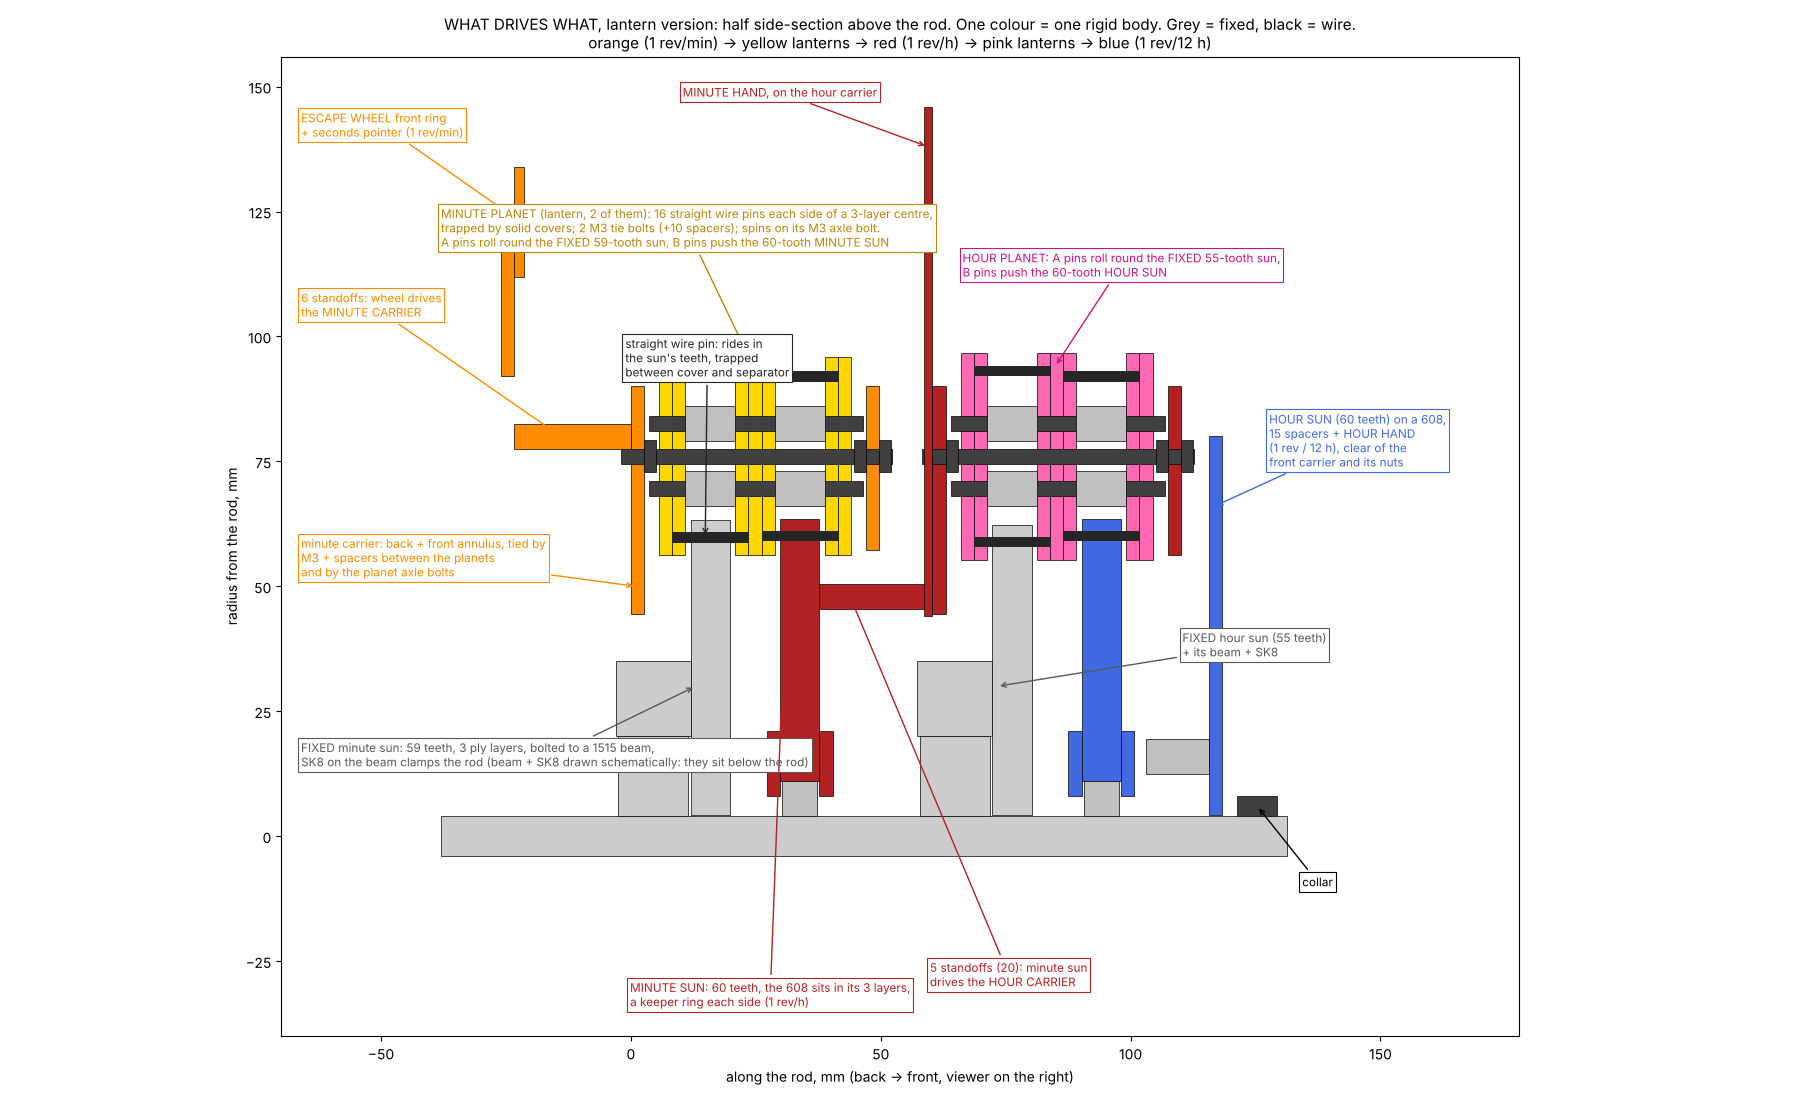
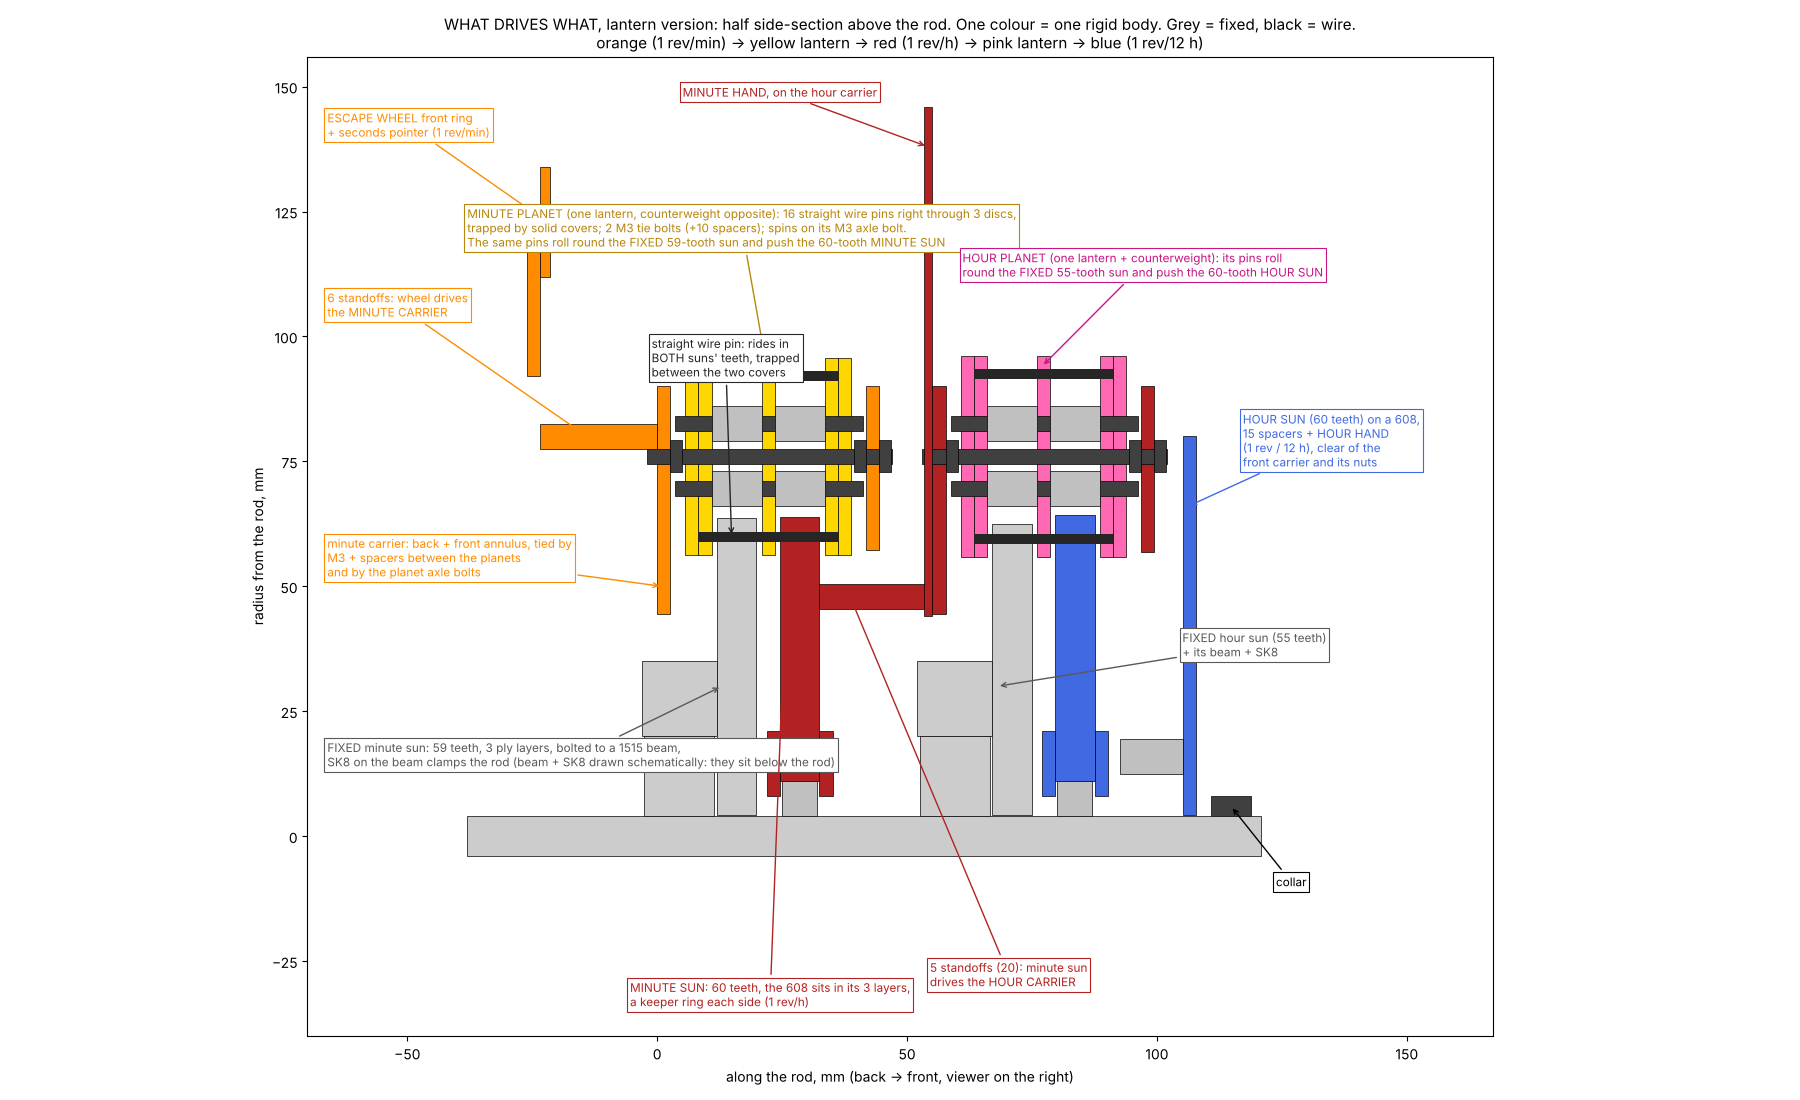
Clock train: one shared-pin lantern per stage (16 straight pins through 3 discs) + counterweight; mesh checked over a full turn
Claude-Session: https://claude.ai/code/session_01LQy87QnU21cWEAk5CN6jGY

diff --git a/marbles/clock/clock_lantern.py b/marbles/clock/clock_lantern.py
@@ -1,17 +1,18 @@
 #!/usr/bin/env python3
-"""Clock train, LANTERN version: the planets are lanterns (straight 2.05 wire pins), the suns plain ply gears (3 layers)
-with teeth cut as the envelope of the lantern pins. Each mesh is wood on steel, the pins span the whole sun thickness
+"""Clock train, LANTERN version: ONE lantern planet per stage (16 straight 2.05 wire pins running right through it, serving
+both suns) + a counterweight, the suns plain ply gears (3 layers) with teeth cut as the envelope of the pins. Each mesh is wood on steel, the pins span the whole sun thickness
 (so a sun can warp or float along them without losing the mesh), and nothing is bent.
 
 Differential suns: carrier in, sun A fixed, sun B out; out / carrier = 1 - ZA*PB / (PA*ZB).
-Both stages: A = 76, sun B (60 teeth) at pitch 2*pi, PA = PB = 16 pins, 2 planets.
+Both stages: A = 76, P = 16 pins on ONE circle, midway between the two suns' pitch-circle sizes (the teeth are cut to the
+pins' real path, so being a little off each pitch circle costs nothing).
+Shared pins put the planet at the same phase on both suns, which only fits planets 360 / (ZB - ZA) apart: minutes (60 - 59
+= 1) one planet; hours (60 - 55 = 5) one, or up to 5 at 72 deg. Extra minute planets would need separate A / B pin sets.
 
-One planet (lantern), back -> front, all ply3, all clamped by 2 M3 tie bolts (+ 10 spacers in the two sun zones), spinning
-on a centre M3 axle bolt nutted to both carriers:
-  cover A (solid) | disc A (A holes) | [sun A zone, 10] | c1 (A holes) | separator (solid) | c2 (B holes) |
-  [sun B zone, 10] | disc B (B holes) | cover B (solid)
-The A pins (cut to disc A + 10 + c1) are trapped between cover A and the separator, the B pins likewise: straight wire,
-cut to length, dropped in. Gear B's holes sit at each planet's own angle to the tie holes (cut per planet).
+The lantern, back -> front, all ply3, clamped by 2 M3 tie bolts (+ 10 spacers in the two sun zones), spinning on a centre
+M3 axle bolt nutted to both carriers:
+  cover (solid) | disc (holes) | [sun A zone, 10] | middle disc (holes) | [sun B zone, 10] | disc (holes) | cover (solid)
+The pins (disc to disc, straight wire cut to one length) are trapped between the covers. All planets identical.
 
     python3 marbles/clock/clock_lantern.py    # numbers + clock_lantern_profiles.scad (used by clock_train.scad)
 """
@@ -24,7 +25,7 @@ HERE = Path(__file__).resolve().parent
 T = 2.63
 PIN, PIN_HOLE, RIM = cp.PIN, cp.PIN_HOLE, cp.RIM
 P_PL = 16                        # lantern pins (each side)
-N_PL = 2                         # planets per stage
+N_PL = 1                         # planets per stage (shared pins: see above)
 L_SUN = 3                        # ply layers per sun gear
 ZONE = 10.0                      # lantern disc to lantern disc round a sun (a bought 10 spacer on each tie bolt)
 TIE_D = 6.5                      # tie bolts, either side of the planet centre
@@ -33,13 +34,54 @@ STAGES = {"minute": dict(ZA=59, ZB=60), "hour": dict(ZA=55, ZB=60)}
 A = 60.0 + P_PL                  # sun B pitch 2*pi -> pin circle (lantern B) r P_PL, sun B pitch r 60
 
 
+def pin_r(S):
+    """the one pin circle: midway between the two pitch radii the suns would like"""
+    return (A * P_PL / (S["ZA"] + P_PL) + A * P_PL / (S["ZB"] + P_PL)) / 2
+
+
+def sun_cut(Z, rp, steps=2400, tip_w=cp.TIP_W):
+    """sun of Z teeth meshing the P_PL-pin lantern (centre distance A) whose pins sit on radius rp: blank minus the pins
+    through every position (true kinematics: sun / planet turn = P_PL / Z). Returns pitch r, tip r, outline, contact."""
+    from shapely.geometry import Point
+    from shapely.ops import unary_union
+    R = A * Z / (Z + P_PL); r = A - R
+    cut = []
+    turns = 2 * math.pi * R / r
+    for i in range(steps + 1):
+        b = -turns / 2 + turns * i / steps              # planet turn (rel. carrier)
+        a = -b * r / R                                  # sun turn (external mesh: opposite)
+        c, s = math.cos(-a), math.sin(-a)
+        for j in range(P_PL):
+            g = math.pi + b + j * 2 * math.pi / P_PL
+            x, y = A + rp * math.cos(g), rp * math.sin(g)
+            if math.hypot(x, y) > R + 6:
+                continue
+            cut.append(Point(c * x - s * y, s * x + c * y).buffer(PIN / 2 + cp.PIN_CLR, 16))
+    cut = unary_union(cut)
+    best = None
+    for k in range(80):
+        ra = R + 0.5 + 0.05 * k
+        g = Point(0, 0).buffer(ra, 512).difference(cut)
+        ring = Point(0, 0).buffer(ra, 512).difference(Point(0, 0).buffer(ra - 0.05, 512))
+        land = ring.intersection(g)
+        w = min(x.length for x in getattr(land, "geoms", [land])) / 2 if not land.is_empty else 0
+        if w < tip_w:
+            break
+        best = (ra, g)
+    ra, g = best
+    t = 0.0
+    while math.hypot(A + rp * math.cos(math.pi + t), rp * math.sin(math.pi + t)) <= ra + PIN / 4:
+        t += 0.0005
+    return R, ra, g, t / (2 * math.pi / P_PL)
+
+
 def stage(S):
+    rp = pin_r(S)
     out = {}
     for lay in ("A", "B"):
         Z = S["Z" + lay]
-        p = 2 * math.pi * A / (Z + P_PL)
-        R, tip, g = cp.planet_profile(Z, P_PL, p, steps=2400)       # sun (Z teeth) cut by the P_PL-pin lantern
-        out[lay] = dict(Z=Z, p=p, R=R, tip=tip, g=g, r=P_PL * p / (2 * math.pi), cr=cp.contact_ratio(Z, P_PL, p, tip))
+        R, tip, g, cr = sun_cut(Z, rp)
+        out[lay] = dict(Z=Z, R=R, tip=tip, g=g, r=rp, cr=cr, p=2 * math.pi * rp / P_PL)
     return out
 
 
@@ -49,7 +91,7 @@ def pts(poly):
 
 if __name__ == "__main__":
     from shapely import affinity
-    lines = ["// generated by clock_lantern.py: sun gear outlines (a tooth on +x) + lantern pin circles",
+    lines = ["// generated by clock_lantern.py: sun gear outlines (a tooth space on +x) + lantern pin circles",
              f"CLOCK_A = {A}; N_PL = {N_PL}; P_PL = {P_PL}; L_SUN = {L_SUN}; ZONE = {ZONE}; TIE_D = {TIE_D};"]
     disc_r = 0
     for name, S in STAGES.items():
@@ -57,21 +99,28 @@ if __name__ == "__main__":
         ratio = 1 - S["ZA"] / S["ZB"]
         print(f"{name}: out/carrier = 1 - {S['ZA']}*{P_PL}/({P_PL}*{S['ZB']}) = {ratio:.6f} (1/{1 / ratio:.3f})")
         for lay, d in st.items():
-            room = d["r"] - (d["tip"] - d["R"])
-            print(f"  sun {lay}: {d['Z']} teeth, pitch r {d['R']:.3f}, tip r {d['tip']:.2f}; lantern pin circle r {d['r']:.3f} "
+            room = A - d["tip"]
+            print(f"  sun {lay}: {d['Z']} teeth, pitch r {d['R']:.3f}, tip r {d['tip']:.2f}; pin circle r {d['r']:.3f} "
                   f"(pitch {d['p']:.3f}, gap between pins {d['p'] - PIN:.2f}); contact ~{d['cr']:.2f}; "
                   f"room for the tie bolts inside the sun tips {room:.2f} (need {TIE_D + SP_D / 2 + 1:.2f})")
             assert room >= TIE_D + SP_D / 2 + 1
-            g = affinity.rotate(d["g"], 180 / d["Z"], origin=(0, 0))       # a tooth on +x
+            g = d["g"]                                                      # a tooth SPACE on +x (a pin sits there at 0)
             lines.append(f"function sun_{name}_{lay}() = {pts(g.simplify(0.02))};")
-            lines.append(f"{name}_{lay}_r = {d['r']:.4f};")
+            if lay == "A":
+                lines.append(f"{name}_r = {d['r']:.4f};")
             disc_r = max(disc_r, d["r"] + PIN_HOLE / 2 + RIM)
     lines.append(f"LANTERN_R = {disc_r:.3f};")
-    pin_len = T + ZONE + T
-    n = 2 * P_PL * N_PL * len(STAGES)
+    pin_len = 3 * T + 2 * ZONE
+    n = P_PL * N_PL * len(STAGES)
     print(f"lantern disc r {disc_r:.2f}; planet reaches {A - disc_r:.2f} .. {A + disc_r:.2f} from the rod")
-    print(f"pins: {P_PL} x 2 sides x {N_PL} planets x {len(STAGES)} stages = {n}, each {pin_len:.2f} long "
-          f"(disc {T} + zone {ZONE} + c-layer {T}) -> {n * pin_len / 1000:.2f} m of wire")
-    print(f"planet stack: 7 layers + 2 zones = {7 * T + 2 * ZONE:.2f}")
+    print(f"pins: {P_PL} x {N_PL} planet x {len(STAGES)} stages = {n}, each {pin_len:.2f} long "
+          f"(3 discs {3 * T:.2f} + 2 zones {2 * ZONE}) -> {n * pin_len / 1000:.2f} m of wire")
+    print(f"planet stack: 5 layers + 2 zones = {5 * T + 2 * ZONE:.2f}")
+    # counterweight: rough planet mass (ply 0.6 g/cm3, steel 7.85) -- an estimate, balance the carrier by hand
+    ply = 5 * math.pi * disc_r ** 2 * T * 0.6e-3
+    pins = n / len(STAGES) * pin_len * math.pi * (PIN / 2) ** 2 * 7.85e-3
+    hw = 3 * (40 * math.pi * 1.5 ** 2 * 7.85e-3) + 6 * 0.6 + 2 * 1.0       # 3 M3 x ~40, 6 nuts, 2 spacers (guesses)
+    print(f"planet mass ~{ply + pins + hw:.0f} g (ply {ply:.1f} + pins {pins:.1f} + hardware ~{hw:.1f}, estimate) -> "
+          f"counterweight that much at r {A} opposite, tuned so the carrier sits still at any angle")
     (HERE / "clock_lantern_profiles.scad").write_text("\n".join(lines) + "\n")
     print("wrote clock_lantern_profiles.scad")

diff --git a/marbles/clock/clock_train_drive.py b/marbles/clock/clock_train_drive.py
@@ -26,9 +26,8 @@ def box(ax, z0, dz, r0, r1, col, ec="k", lw=.5):
 def layout():
     """z (along the rod) inside one stage, back carrier's back face = 0, as clock_train.scad (explode 0)"""
     z0 = T + CB
-    zl = [z0 + x for x in (0, T, 2 * T, 2 * T + ZONE, 3 * T + ZONE, 4 * T + ZONE, 5 * T + ZONE, 5 * T + 2 * ZONE,
-                           6 * T + 2 * ZONE, 7 * T + 2 * ZONE)]
-    z = dict(zl=zl, sunA=zl[2] + CL, sunB=zl[6] + CL, fc=zl[9] + FC)
+    zl = [z0 + x for x in (0, T, 2 * T, 2 * T + ZONE, 3 * T + ZONE, 3 * T + 2 * ZONE, 4 * T + 2 * ZONE, 5 * T + 2 * ZONE)]
+    z = dict(zl=zl, sunA=zl[2] + CL, sunB=zl[4] + CL, fc=zl[7] + FC)
     z["depth"] = z["fc"] + T
     z["keeper_front"] = z["sunB"] + (L_SUN + 1) * T
     return z
@@ -47,21 +46,20 @@ def stage(ax, z0, name, ccar, cpl, cout, st):
     for zz in (z["sunB"] - T, z["sunB"] + L_SUN * T):
         box(ax, zz, T, 8, 21, cout)                                                                  # keepers
     box(ax, z["sunB"] + 0.4, 7, 4, 11, "silver")                                                    # 608
-    for i in (0, 1, 3, 4, 5, 7, 8):                                                                  # lantern layers
+    for i in (0, 1, 3, 5, 6):                                                                        # lantern layers
         box(ax, zl[i], T, A - lr, A + lr, cpl)
-    for lay, za, zb in (("A", zl[1], zl[4]), ("B", zl[5], zl[8])):                                   # pins (top + bottom of the circle)
-        r = st[lay]["r"]
-        for sgn in (-1, 1):
-            box(ax, za, zb - za, A + sgn * r - cl.PIN / 2, A + sgn * r + cl.PIN / 2, COL["pin"], ec="none")
+    r = st["A"]["r"]
+    for sgn in (-1, 1):                                                                              # pins (one set, both suns)
+        box(ax, zl[1], zl[6] - zl[1], A + sgn * r - cl.PIN / 2, A + sgn * r + cl.PIN / 2, COL["pin"], ec="none")
     for sgn in (-1, 1):                                                                              # tie bolts + spacers
         rt = A + sgn * TIE_D
-        box(ax, zl[0] - 2, zl[9] - zl[0] + 4.4, rt - 1.5, rt + 1.5, COL["hw"])
-        for za, zb in ((zl[2], zl[3]), (zl[6], zl[7])):
+        box(ax, zl[0] - 2, zl[7] - zl[0] + 4.4, rt - 1.5, rt + 1.5, COL["hw"])
+        for za, zb in ((zl[2], zl[3]), (zl[4], zl[5])):
             box(ax, za, zb - za, rt - SP_R, rt + SP_R, "silver")
     box(ax, z0 - 2, z["fc"] + T + 4.6 - z0, A - 1.5, A + 1.5, COL["hw"])                            # axle bolt (fixed)
     for zz in (z0 + T, z["fc"] - 2.4, z["fc"] + T):
         box(ax, zz, 2.4, A - 3.2, A + 3.2, COL["hw"])
-    chk = {"sun A to c1": zl[3] - (z["sunA"] + L_SUN * T), "lantern inner reach vs sun tips (axial: zones)": CL,
+    chk = {"sun A to middle disc": zl[3] - (z["sunA"] + L_SUN * T), "lantern inner reach vs sun tips (axial: zones)": CL,
            "UP_R standoff vs hour beam": UP_R - 2.5 - BEAM_REACH, "UP_R standoff vs lantern discs": A - lr - UP_R - 2.5,
            "tie spacers inside the sun tips": min(st[k]["r"] - (st[k]["tip"] - st[k]["R"]) for k in st) - TIE_D - SP_R}
     for k, v in chk.items():
@@ -93,24 +91,24 @@ def drive_diagram():
     L("ESCAPE WHEEL front ring\n+ seconds pointer (1 rev/min)", (zw + 1, 125), (zw - 40, 140), COL["sec"])
     L("6 standoffs: wheel drives\nthe MINUTE CARRIER", (zw + 12, 80), (zw - 40, 104), COL["sec"])
     L("minute carrier: back + front annulus, tied by\nM3 + spacers between the planets\nand by the planet axle bolts", (1, 50), (zw - 40, 52), COL["sec"])
-    L(f"MINUTE PLANET (lantern, {N_PL} of them): {cl.P_PL} straight wire pins each side of a 3-layer centre,\n"
+    L(f"MINUTE PLANET (one lantern, counterweight opposite): {cl.P_PL} straight wire pins right through 3 discs,\n"
       f"trapped by solid covers; 2 M3 tie bolts (+10 spacers); spins on its M3 axle bolt.\n"
-      f"A pins roll round the FIXED {sm['A']['Z']}-tooth sun, B pins push the {sm['B']['Z']}-tooth MINUTE SUN",
-      (m["zl"][4] + 1, A + 18), (-38, 118), "darkgoldenrod")
+      f"The same pins roll round the FIXED {sm['A']['Z']}-tooth sun and push the {sm['B']['Z']}-tooth MINUTE SUN",
+      (m["zl"][3] + 1, A + 18), (-38, 118), "darkgoldenrod")
     L(f"FIXED minute sun: {sm['A']['Z']} teeth, 3 ply layers, bolted to a 1515 beam,\nSK8 on the beam clamps the rod "
       f"(beam + SK8 drawn schematically: they sit below the rod)", (m["sunA"] + 1, 30), (zw - 40, 14), "0.35")
     L(f"MINUTE SUN: {sm['B']['Z']} teeth, the 608 sits in its 3 layers,\na keeper ring each side (1 rev/h)", (m["sunB"] + 1, 45), (m["sunB"] - 30, -34), COL["minute"])
     L(f"5 standoffs ({SP_UP}): minute sun\ndrives the HOUR CARRIER", (m["sunB"] + 14, UP_R), (m["sunB"] + 30, -30), COL["minute"])
     L("MINUTE HAND, on the hour carrier", (z_h - 1, 138), (z_h - 50, 148), COL["minute"])
-    L(f"HOUR PLANET: A pins roll round the FIXED {sh['A']['Z']}-tooth sun,\nB pins push the {sh['B']['Z']}-tooth HOUR SUN", (h["zl"][4] + 1, A + 18), (z_h + 6, 112), "mediumvioletred")
+    L(f"HOUR PLANET (one lantern + counterweight): its pins roll\nround the FIXED {sh['A']['Z']}-tooth sun and push the {sh['B']['Z']}-tooth HOUR SUN", (h["zl"][3] + 1, A + 18), (z_h + 6, 112), "mediumvioletred")
     L(f"FIXED hour sun ({sh['A']['Z']} teeth)\n+ its beam + SK8", (h["sunA"] + 1, 30), (z_h + 50, 36), "0.35")
     L(f"HOUR SUN (60 teeth) on a 608,\n{SP_HAND} spacers + HOUR HAND\n(1 rev / 12 h), clear of the\nfront carrier and its nuts", (z_hh + 1, 66), (z_hh + 12, 74), COL["hour"])
-    L("straight wire pin: rides in\nthe sun's teeth, trapped\nbetween cover and separator", (m["zl"][2] + 4, A - sm["A"]["r"]), (m["zl"][2] - 12, 92), COL["pin"])
+    L("straight wire pin: rides in\nBOTH suns' teeth, trapped\nbetween the two covers", (m["zl"][2] + 4, A - sm["A"]["r"]), (m["zl"][2] - 12, 92), COL["pin"])
     L("collar", (z_hh + T + 7, 6), (z_hh + T + 16, -10), "k")
     ax.set_xlim(zw - 44, z_hh + 62); ax.set_ylim(-40, 156); ax.set_aspect("equal")
     ax.set_xlabel("along the rod, mm (back -> front, viewer on the right)"); ax.set_ylabel("radius from the rod, mm")
     ax.set_title("WHAT DRIVES WHAT, lantern version: half side-section above the rod. One colour = one rigid body. Grey = fixed, black = wire.\n"
-                 "orange (1 rev/min) -> yellow lanterns -> red (1 rev/h) -> pink lanterns -> blue (1 rev/12 h)", fontsize=11)
+                 "orange (1 rev/min) -> yellow lantern -> red (1 rev/h) -> pink lantern -> blue (1 rev/12 h)", fontsize=11)
     out = VIEWS / "clock_train_drive.png"
     plt.tight_layout(); plt.savefig(out, dpi=100)
     for n, c in (("minute", chk_m), ("hour", chk_h)):
@@ -127,9 +125,9 @@ def renders():
         a = fig.add_axes([0.0 + (i % 2) * 0.5, 0.52 - (i // 2) * 0.5, 0.5, 0.46]); a.imshow(mi.imread(VIEWS / f"{n}.png")); a.axis("off"); a.set_title(t, fontsize=14)
     a = fig.add_axes([0.05, 0.04, 0.9, 0.42]); a.axis("off")
     for k, (c, txt) in enumerate(((COL["sec"], "ORANGE: escape wheel + 6 standoffs + minute carrier (back + front) (1 rev/min)"),
-                                  (COL["mpl"], "YELLOW: the 2 minute planets: lanterns, straight wire pins both sides of a 3-layer centre, on an M3 axle"),
+                                  (COL["mpl"], "YELLOW: the minute planet: one lantern, 16 straight wire pins through 3 discs, on an M3 axle (counterweight opposite)"),
                                   (COL["minute"], "RED: minute sun (60 teeth) + 5 standoffs + hour carrier (back + front) + minute hand (1 rev/h)"),
-                                  (COL["hpl"], "PINK: the 2 hour planets (lanterns: A pins on the fixed 55-tooth sun, B pins on the hour sun)"),
+                                  (COL["hpl"], "PINK: the hour planet (one lantern: its pins mesh the fixed 55-tooth sun and the hour sun)"),
                                   (COL["hour"], "BLUE: hour sun (60 teeth) + hour hand (on spacers) (1 rev / 12 h)"),
                                   (COL["fix"], "GREY: fixed: rod, fixed suns (59 and 55 teeth), 1515 beams, SK8s.   BLACK: straight 2.05 wire pins"))):
         a.add_patch(plt.Rectangle((0, 0.9 - k * 0.15), 0.06, 0.1, fc=c, ec="k", transform=a.transAxes))
